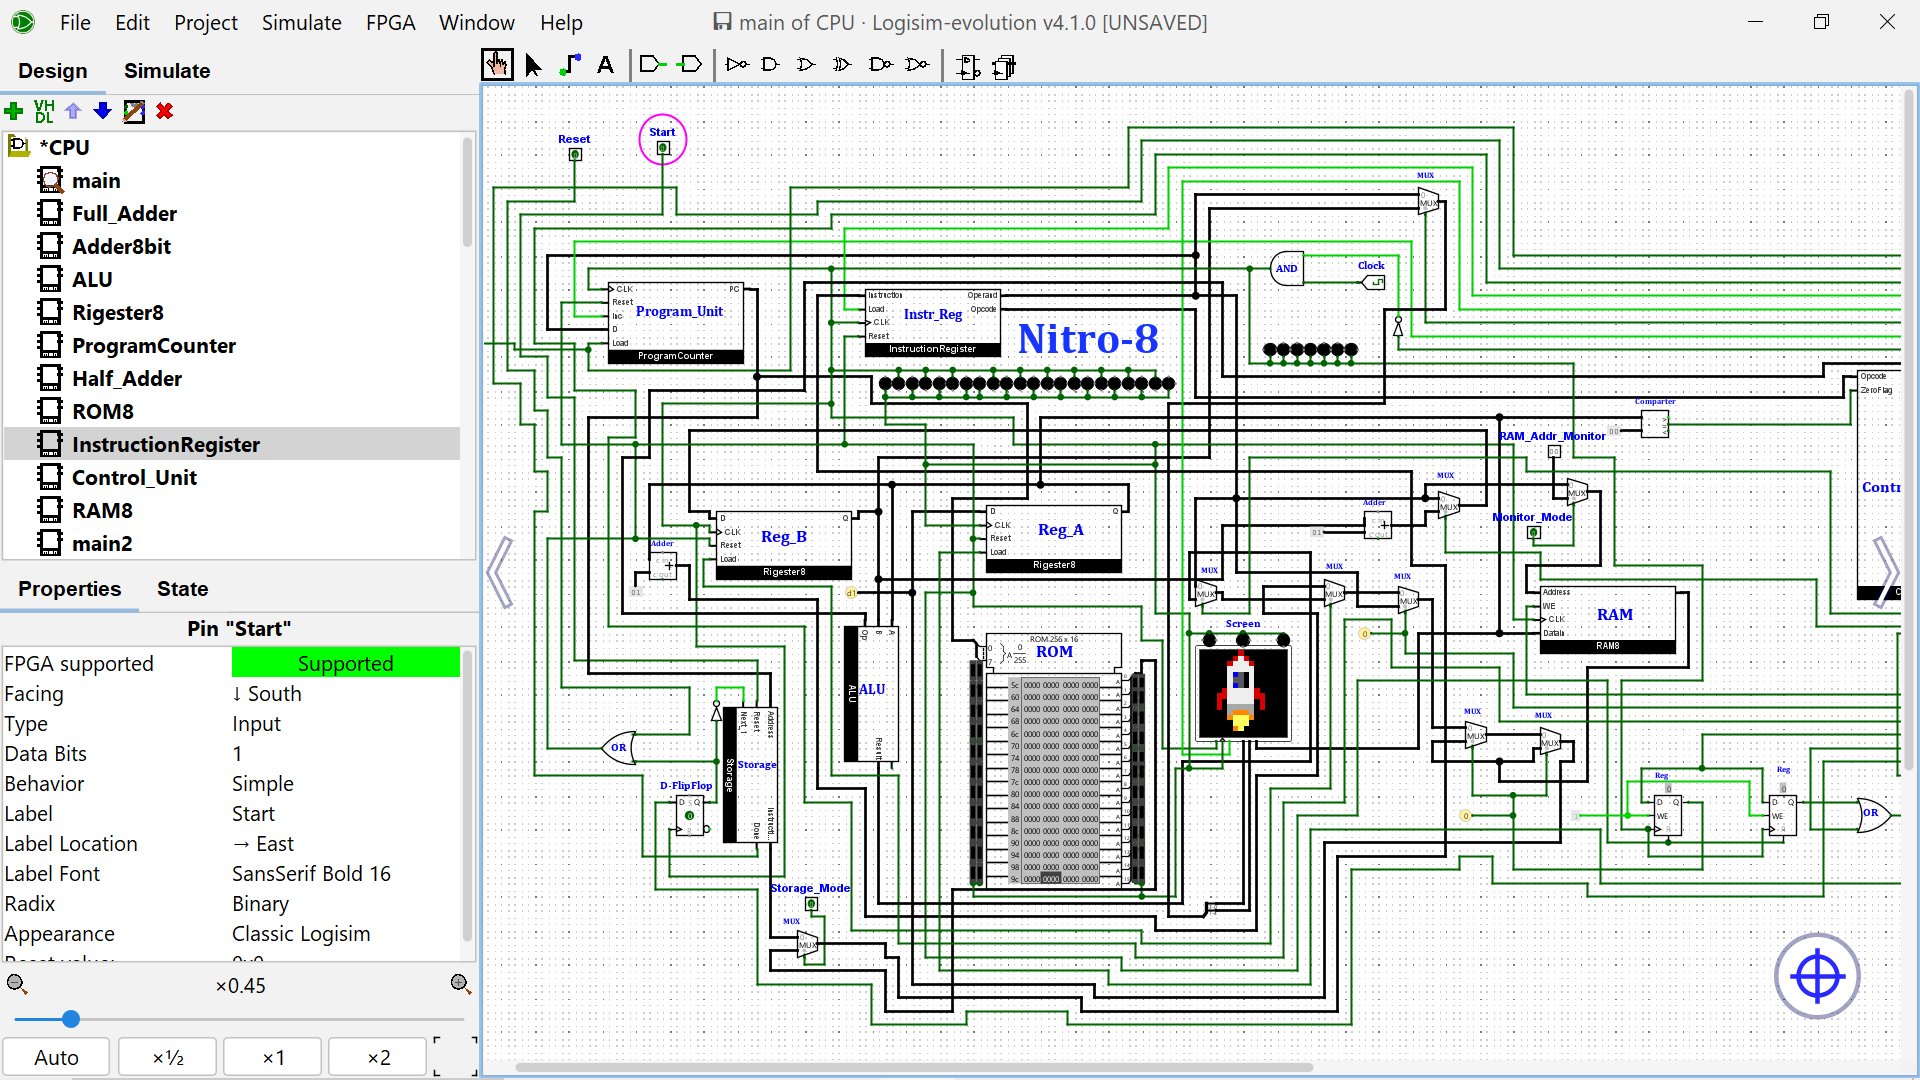
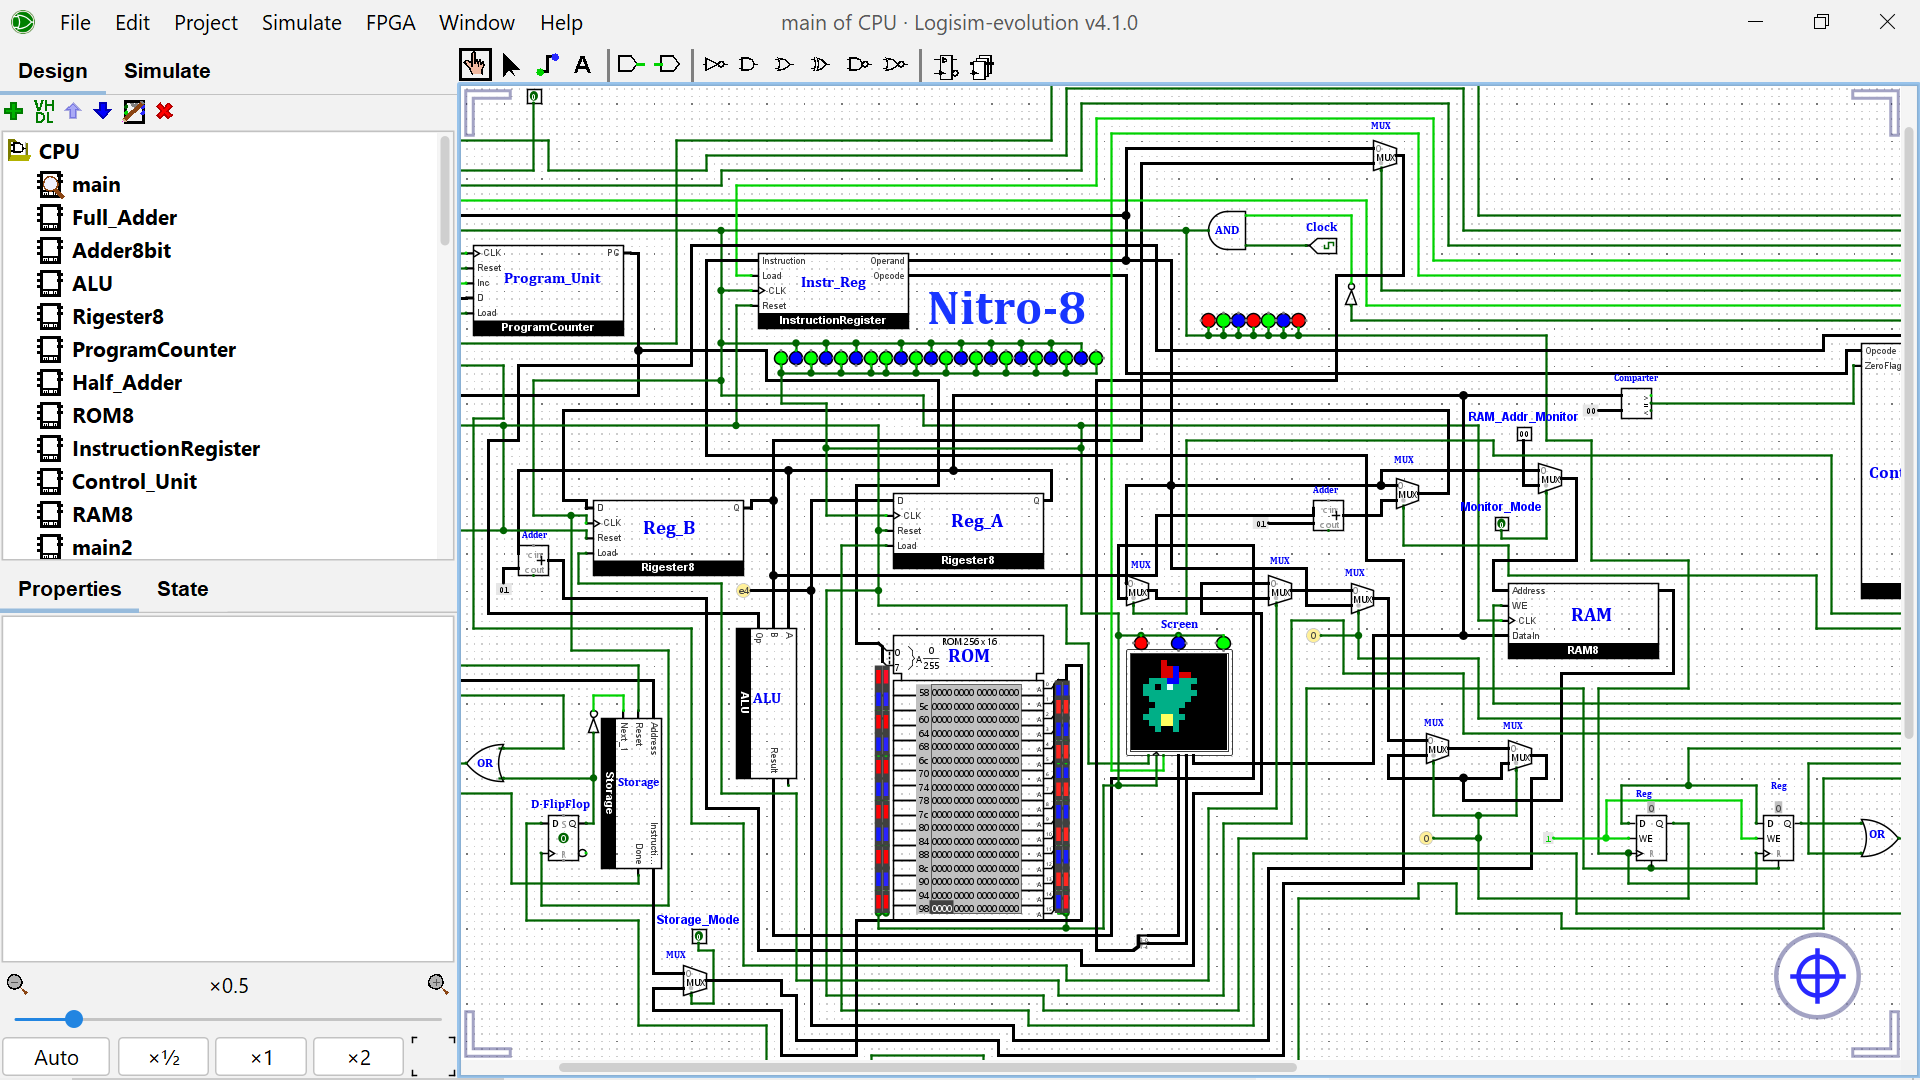
docs: Circuit Overview — add 6 new sub-circuit screenshots (ALU, register, adder, RAM, PC, IR), 2-per-row 410px layout, rename section from Circuit Screenshots to Circuit Overview

diff --git a/README.md b/README.md
@@ -41,7 +41,7 @@
 - [Features](#features)
 - [Architecture](#architecture)
 - [Live Simulation](#live-simulation)
-- [Circuit Screenshots](#circuit-screenshots)
+- [Circuit Overview](#circuit-overview)
 - [Instruction Set](#instruction-set)
 - [RGB Display](#rgb-display)
 - [Storage System](#storage-system)
@@ -136,7 +136,7 @@ The CPU can **fetch, decode, and execute** real assembly instructions, perform a
 
 ---
 
-## Circuit Screenshots
+## Circuit Overview
 
 <div align="center">
 
@@ -152,11 +152,63 @@ The CPU can **fetch, decode, and execute** real assembly instructions, perform a
 
 <div align="center">
 
-### ② &nbsp; Control Unit &nbsp;&nbsp;|&nbsp;&nbsp; ③ &nbsp; Storage System &nbsp;&nbsp;|&nbsp;&nbsp; ④ &nbsp; RGB Display Output
+### ② &nbsp; Control Unit &nbsp;&nbsp;|&nbsp;&nbsp; ③ &nbsp; Storage System
 
-<img src="https://raw.githubusercontent.com/NomanRafique01/Nitro-8/main/assets/screenshots/ControlUnit.png" width="370" alt="Nitro-8 Hardwired Control Unit"/>&nbsp;&nbsp;&nbsp;<img src="https://raw.githubusercontent.com/NomanRafique01/Nitro-8/main/assets/screenshots/StorageUnit.png" width="370" alt="Nitro-8 Storage System — 20 Sprite Units"/>&nbsp;&nbsp;&nbsp;<img src="https://raw.githubusercontent.com/NomanRafique01/Nitro-8/main/assets/screenshots/Screen.png" width="370" alt="Nitro-8 16×16 RGB Display Output"/>
+<img src="https://raw.githubusercontent.com/NomanRafique01/Nitro-8/main/assets/screenshots/ControlUnit.png" width="410" alt="Nitro-8 Hardwired Control Unit"/>&nbsp;&nbsp;&nbsp;<img src="https://raw.githubusercontent.com/NomanRafique01/Nitro-8/main/assets/screenshots/StorageUnit.png" width="410" alt="Nitro-8 Storage System — 20 Sprite Units"/>
 
-*Left — Hardwired Control Unit &nbsp;·&nbsp; Centre — 20-Unit Sprite Storage with MUX selection &nbsp;·&nbsp; Right — 16×16 RGB pixel display rendering a sprite*
+*Left — Hardwired Control Unit decoding 16+ instructions into micro-control signals*
+*Right — 20-Unit Sprite Storage System with MUX-based selection*
+
+</div>
+
+<br/>
+
+<div align="center">
+
+### ④ &nbsp; ALU &nbsp;&nbsp;|&nbsp;&nbsp; ⑤ &nbsp; 8-bit Register
+
+<img src="https://raw.githubusercontent.com/NomanRafique01/Nitro-8/main/assets/screenshots/alu.png" width="410" alt="Nitro-8 8-bit ALU"/>&nbsp;&nbsp;&nbsp;<img src="https://raw.githubusercontent.com/NomanRafique01/Nitro-8/main/assets/screenshots/resgister.png" width="410" alt="Nitro-8 8-bit Register"/>
+
+*Left — 8-bit ALU performing arithmetic and logic operations*
+*Right — 8-bit D flip-flop based register*
+
+</div>
+
+<br/>
+
+<div align="center">
+
+### ⑥ &nbsp; 8-bit Adder &nbsp;&nbsp;|&nbsp;&nbsp; ⑦ &nbsp; RAM
+
+<img src="https://raw.githubusercontent.com/NomanRafique01/Nitro-8/main/assets/screenshots/8-Bit%20Adder.png" width="410" alt="Nitro-8 8-bit Ripple Carry Adder"/>&nbsp;&nbsp;&nbsp;<img src="https://raw.githubusercontent.com/NomanRafique01/Nitro-8/main/assets/screenshots/Ram.png" width="410" alt="Nitro-8 256-byte RAM"/>
+
+*Left — 8-bit Ripple Carry Adder built from full adder chains*
+*Right — 256×8 synchronous RAM with read/write support*
+
+</div>
+
+<br/>
+
+<div align="center">
+
+### ⑧ &nbsp; Program Counter &nbsp;&nbsp;|&nbsp;&nbsp; ⑨ &nbsp; Instruction Register
+
+<img src="https://raw.githubusercontent.com/NomanRafique01/Nitro-8/main/assets/screenshots/programcounter.png" width="410" alt="Nitro-8 Program Counter"/>&nbsp;&nbsp;&nbsp;<img src="https://raw.githubusercontent.com/NomanRafique01/Nitro-8/main/assets/screenshots/InstructionRegister.png" width="410" alt="Nitro-8 16-bit Instruction Register"/>
+
+*Left — 8-bit Program Counter with increment, load, and synchronous reset*
+*Right — 16-bit Instruction Register splitting opcode and operand*
+
+</div>
+
+<br/>
+
+<div align="center">
+
+### ⑩ &nbsp; RGB Display Output
+
+<img src="https://raw.githubusercontent.com/NomanRafique01/Nitro-8/main/assets/screenshots/Screen.png" width="500" alt="Nitro-8 16×16 RGB Display Output"/>
+
+*16×16 RGB pixel display rendering a sprite in XTerm256 8-bit color*
 
 </div>
 
